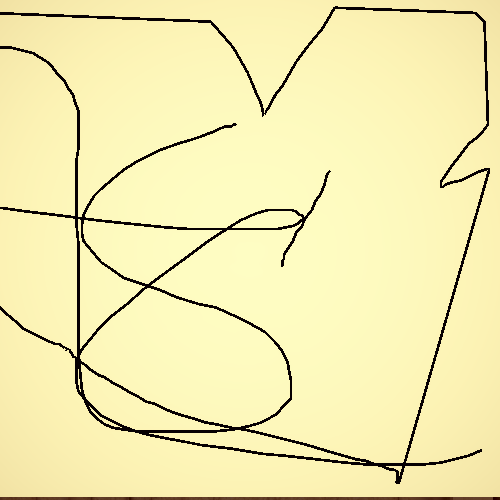
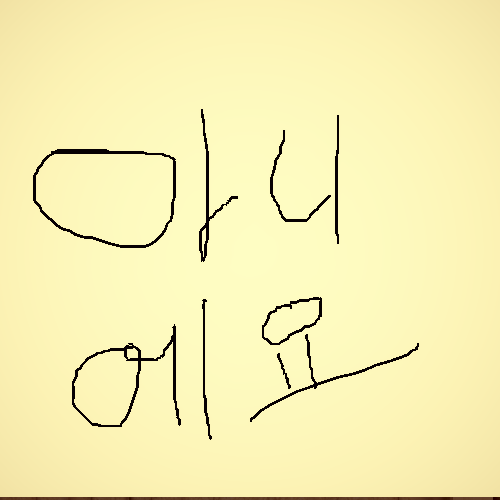
마네킹, 드로잉에 Flow에서 호출할 함수 추가

diff --git a/Assets/01. Scripts/Hoon/Mannequin/MannequinManager.cs b/Assets/01. Scripts/Hoon/Mannequin/MannequinManager.cs
@@ -1,7 +1,9 @@
+using System.Collections;
 using UnityEngine;
 
 public class MannequinManager : MonoBehaviour, IInteractable
 {
+
     [Header("Cameras")]
     public Camera playerCamera;
     public Camera mannequinCamera;   // 위치/방향 기준점으로만 사용
@@ -13,6 +15,9 @@ public class MannequinManager : MonoBehaviour, IInteractable
     [Header("Player")]
     public GameObject player;
 
+    [Header("Interaction Control")]
+    public bool canInteract = true;
+
     bool isInteracting = false;
     CursorLockMode originalLockState;
     bool originalCursorVisible;
@@ -21,10 +26,9 @@ public class MannequinManager : MonoBehaviour, IInteractable
     Vector3    savedPosition;
     Quaternion savedRotation;
     Transform  savedParent;
-
     public void OnInteract()
     {
-        if (isInteracting) return;
+        if (!canInteract || isInteracting) return;
 
         // 커서 상태 저장
         originalLockState     = Cursor.lockState;
@@ -57,10 +61,22 @@ public class MannequinManager : MonoBehaviour, IInteractable
     void Update()
     {
         if (isInteracting && Input.GetKeyDown(KeyCode.Escape))
-            Exit();
+            MannequinExit();
     }
 
-    void Exit()
+    public void MannequinDestroy()
+    { // 플레이어 시점으로 돌아간 후 마네킹 오브젝트 전체 비활성화. 여기에 파티클 넣어도 됨.
+        if (isInteracting) MannequinExit();
+        transform.parent.gameObject.SetActive(false);
+    }
+    public void MannequinSubmit()
+    {
+        MannequinExit();
+        canInteract = false;
+    }
+    public void MannequinEnable() => canInteract = true;
+
+    public void MannequinExit()
     {
         // 메인 카메라 원래 위치/방향 복구
         playerCamera.transform.SetParent(savedParent);

diff --git a/Assets/01. Scripts/Hoon/Mannequin/MannequinCapturer.cs b/Assets/01. Scripts/Hoon/Mannequin/MannequinCapturer.cs
@@ -9,17 +9,25 @@ public class MannequinCapturer : MonoBehaviour
     public int height = 1080;
     public string savePath = "Assets/Captures/capture.png";
 
-    // ★ 추가된 부분: 인스펙터에서 캡처할 레이어를 선택하세요.
+    // 인스펙터에서 캡처할 레이어를 선택
     [Header("Layer Settings")]
     public LayerMask captureMask;
 
+    [Header("마네킹 매니저 인스턴스")]
+    MannequinManager mannequinManager;
     bool isActive = false;
+
+    private void Awake()
+    {
+        mannequinManager = FindAnyObjectByType<MannequinManager>();
+    }
 
     public void Activate() => isActive = true;
     public void Deactivate() => isActive = false;
 
     void Update()
     {
+        Destroy(FindAnyObjectByType<MannequinManager>().gameObject);
         if (!isActive) return;
         if (!Input.GetMouseButtonDown(0)) return;
 
@@ -71,5 +79,6 @@ public class MannequinCapturer : MonoBehaviour
         File.WriteAllBytes(path, tex.EncodeToPNG());
         Destroy(tex);
         Debug.Log($"[MannequinCapturer] 특정 레이어({captureMask.value}) 캡처 완료: {path}");
+        mannequinManager.MannequinSubmit();
     }
 }

diff --git a/Assets/01. Scripts/Hoon/Draw/DrawManager.cs b/Assets/01. Scripts/Hoon/Draw/DrawManager.cs
@@ -14,13 +14,14 @@ public class DrawManager : MonoBehaviour, IInteractable
 
     public UIDrawer uiDrawer;
 
-    // 현재 그림그리기 모드인지 여부
-    private bool isDrawingMode = false;
+    [Header("Interaction Control")]
+    public bool canInteract = true;
 
+    private bool isDrawingMode = false;
 
     public void OnInteract()
     {
-        if (isDrawingMode) return; // 이미 그림그리기 모드 중
+        if (!canInteract || isDrawingMode) return;
 
         EnterDrawingMode();
     }
@@ -61,4 +62,18 @@ public class DrawManager : MonoBehaviour, IInteractable
 
         Debug.Log("그림 그리기 모드 종료");
     }
+
+    public void DrawDestroy()
+    {
+        if (isDrawingMode) ExitDrawingMode();
+        transform.parent.gameObject.SetActive(false);
+    }
+
+    public void DrawSubmit()
+    {
+        ExitDrawingMode();
+        canInteract = false;
+    }
+
+    public void DrawEnable() => canInteract = true;
 }

diff --git a/Assets/01. Scripts/Hoon/Mannequin/MannequinPoser.cs b/Assets/01. Scripts/Hoon/Mannequin/MannequinPoser.cs
@@ -166,7 +166,6 @@ public class MannequinPoser : MonoBehaviour
             transform.localPosition = initialPosition;
             foreach (var pair in initialBoneRotations)
                 pair.Key.localRotation = pair.Value;
-            undoStack.Clear();
             Debug.Log("포즈 전체 초기화");
         }
 

diff --git a/Assets/01. Scripts/Hoon/Draw/ImageCapturer.cs b/Assets/01. Scripts/Hoon/Draw/ImageCapturer.cs
@@ -72,6 +72,6 @@ public class ImageCapturer : MonoBehaviour
         byte[] bytes = screenShot.EncodeToPNG();
         File.WriteAllBytes(fullPath, bytes);
 
-        Debug.Log($"캡처 성공! 경로: {fullPath}");
+        Debug.Log($"캡처 성공 경로: {fullPath}");
     }
 }
